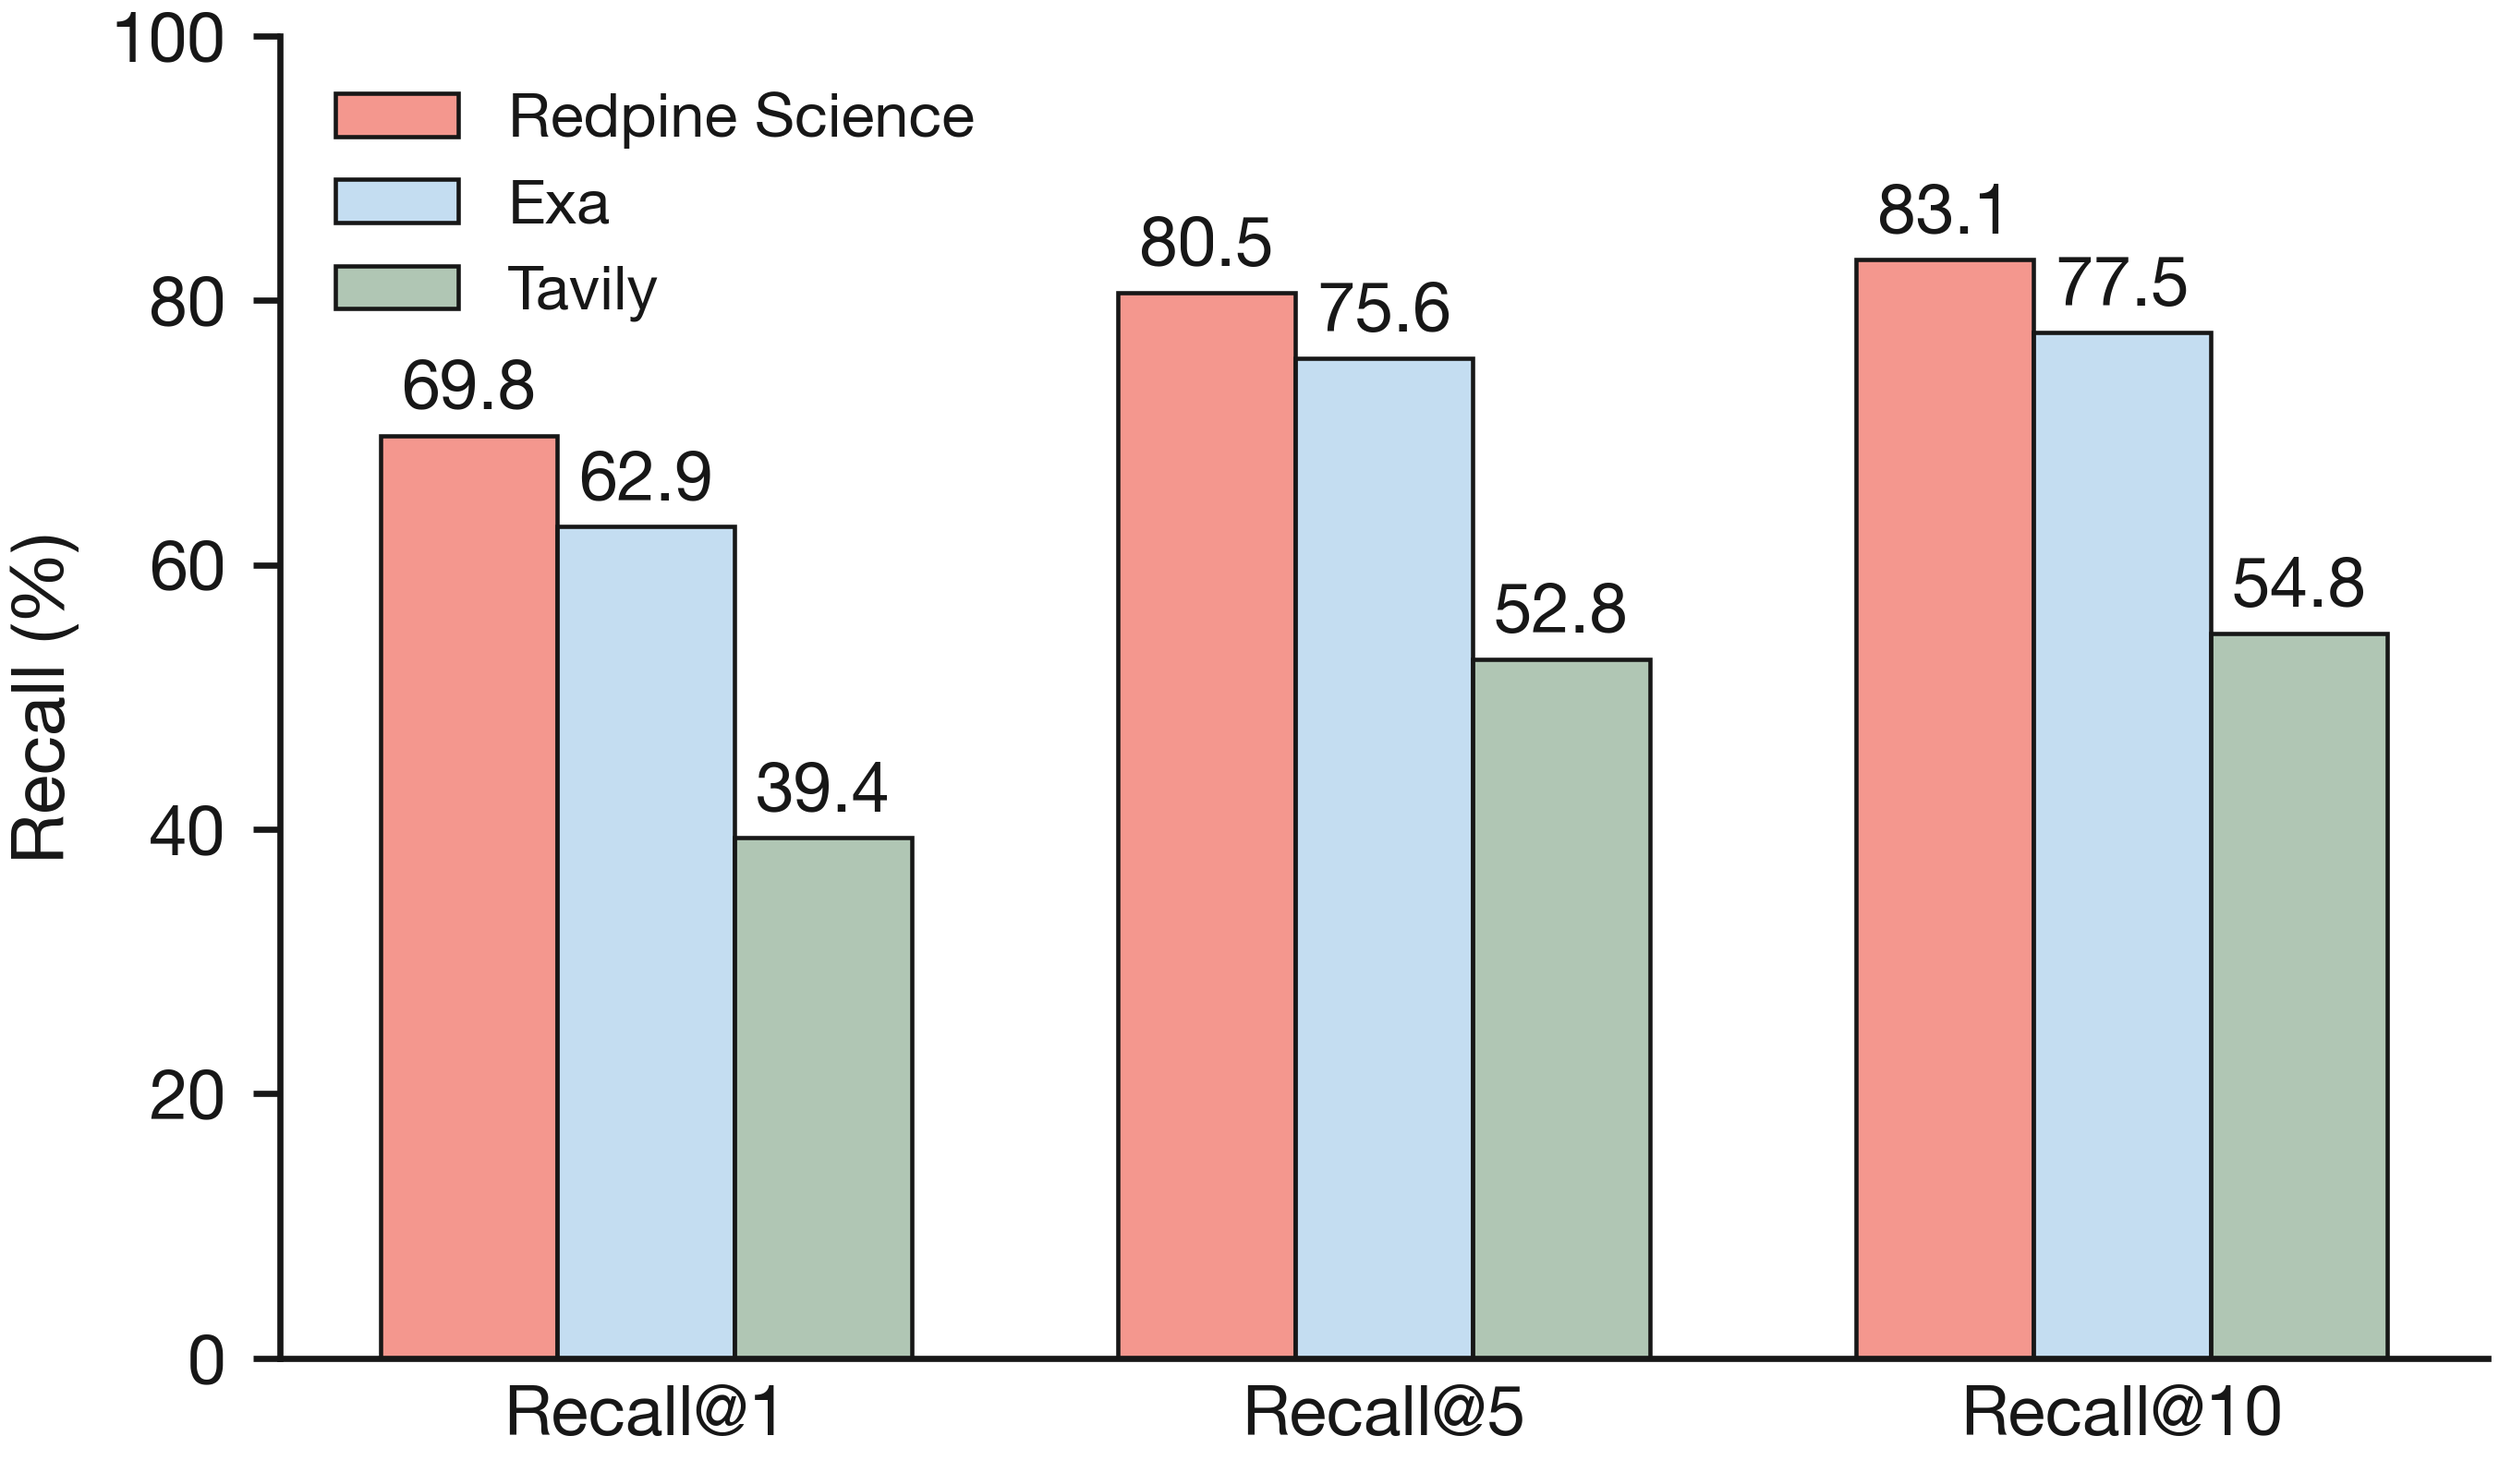
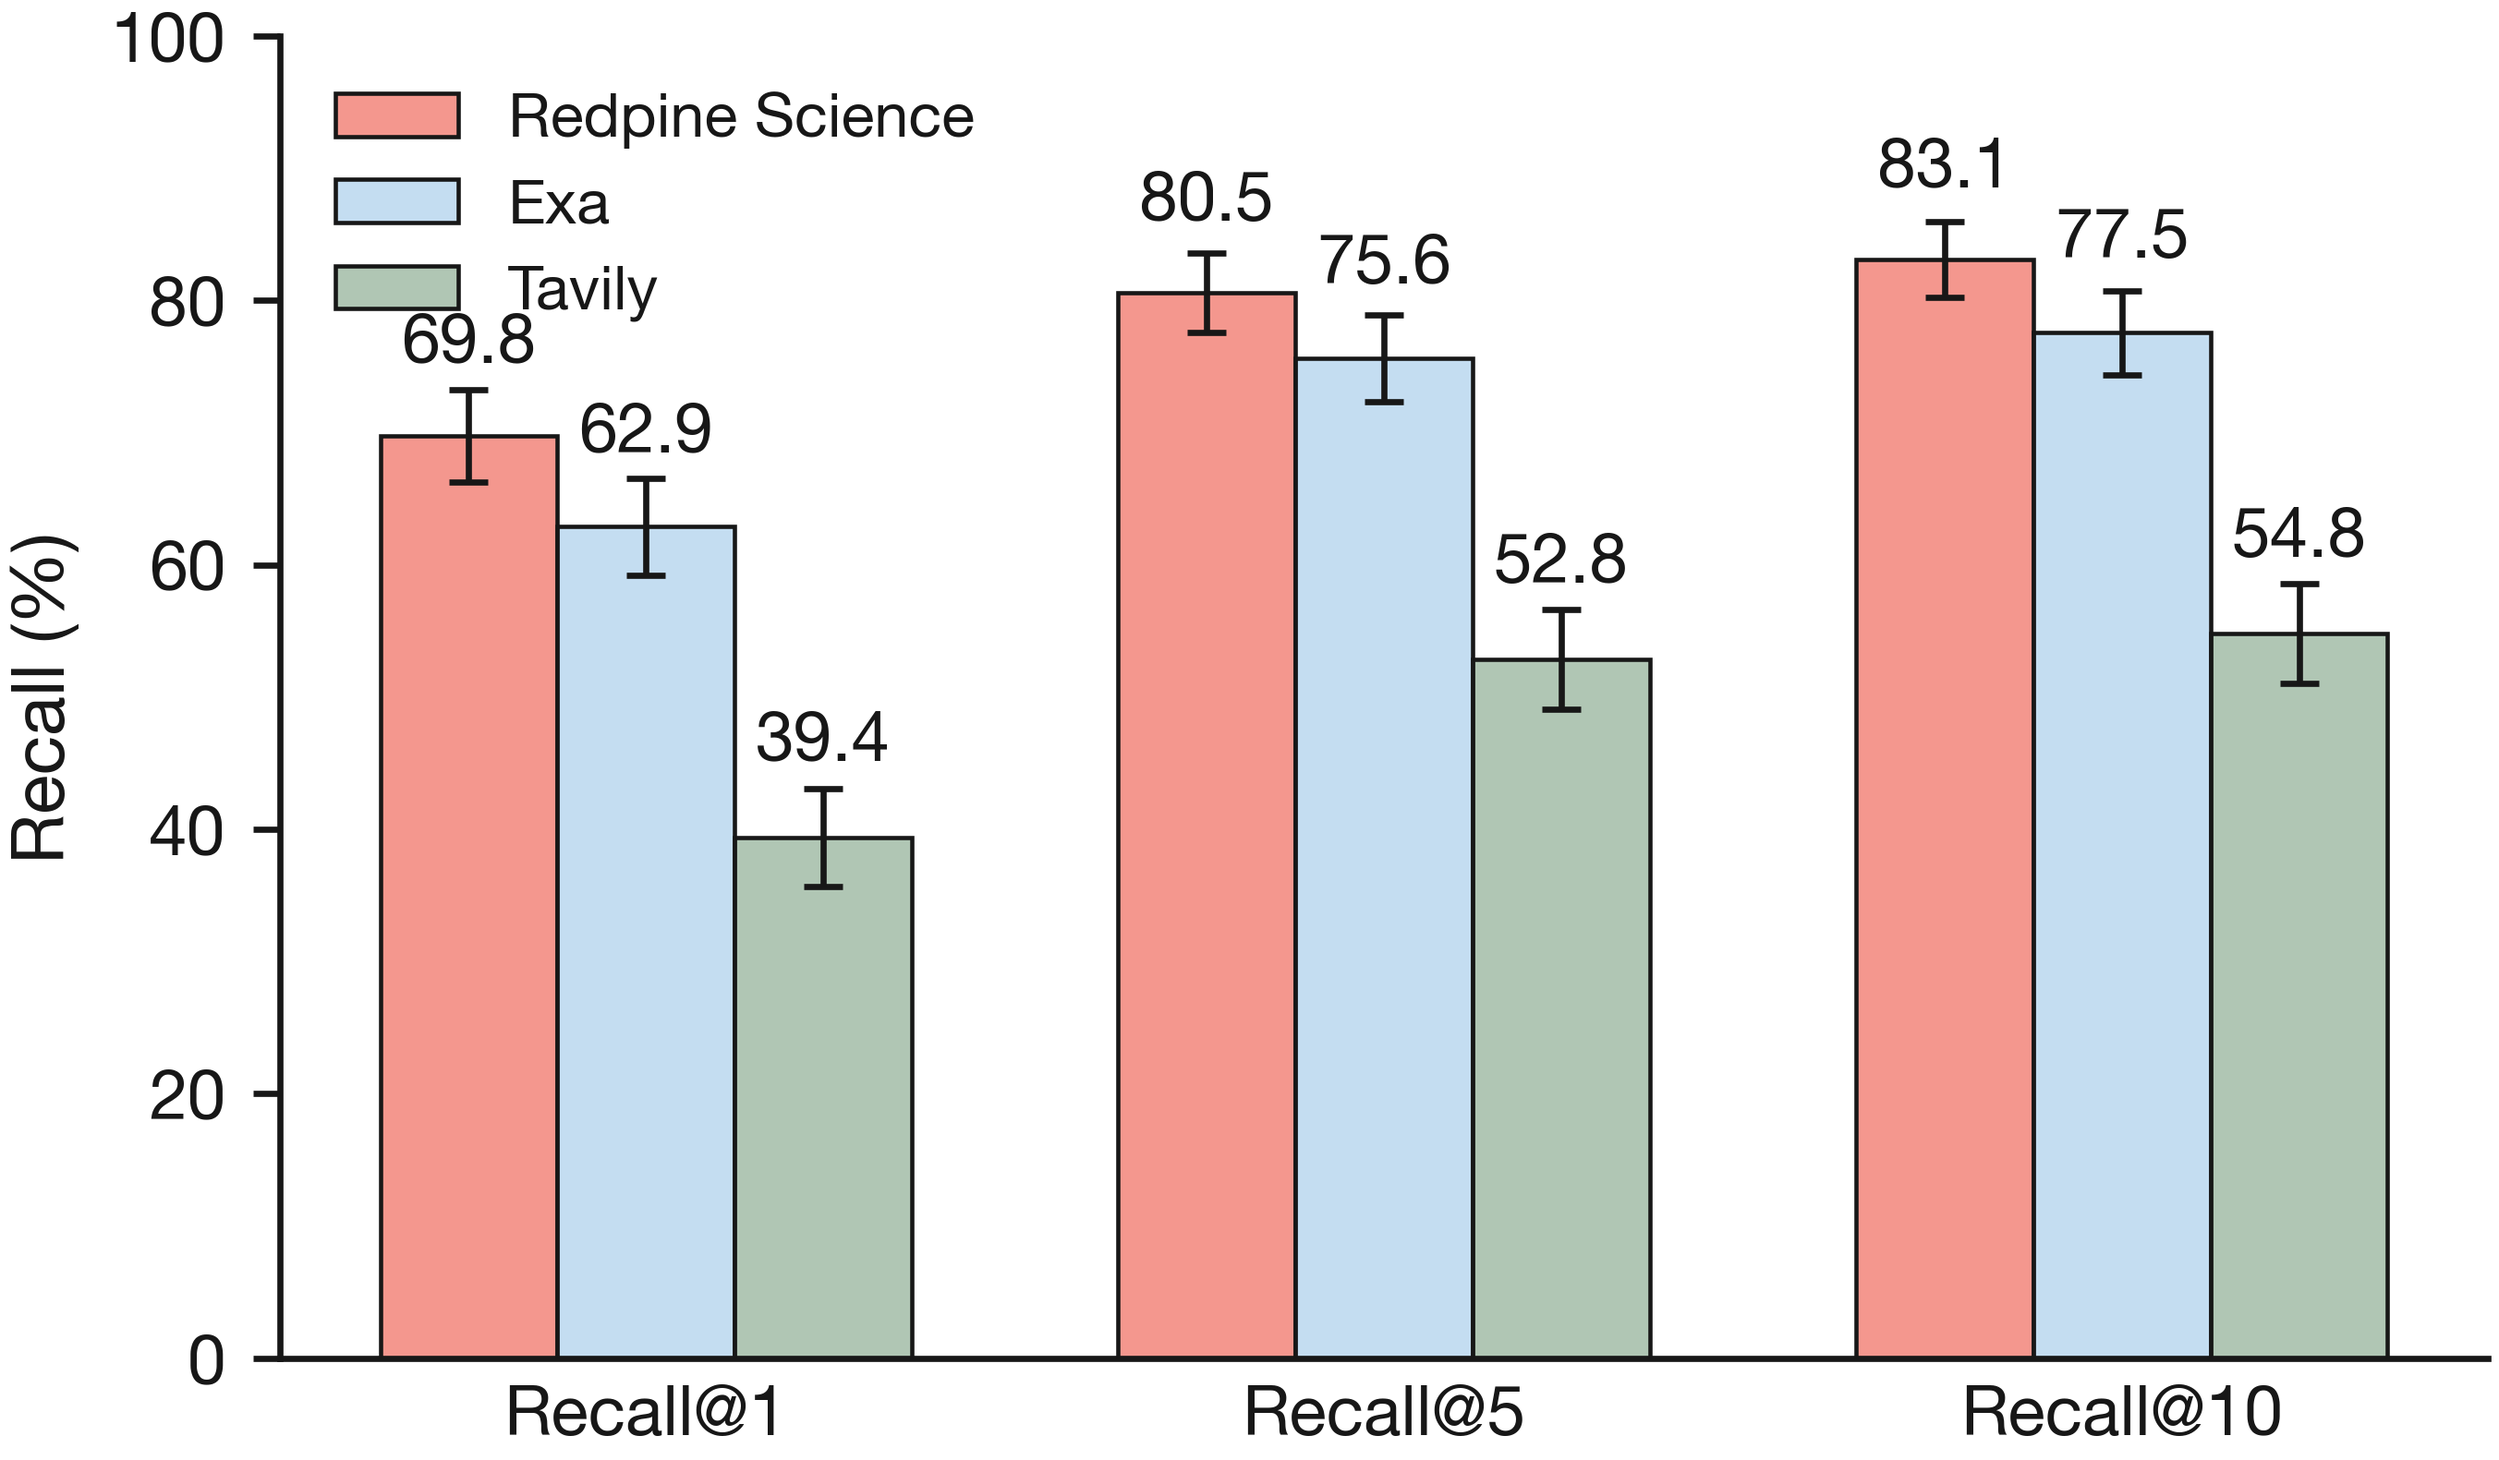
feat(figures): add real binomial CI error bars to quadrant three's recall chart
Exact found-counts at each rank cutoff (466/538/555 Redpine,
420/505/518 Exa, 263/353/366 Tavily, all /668), derived from each
system's rank-1-through-10 distribution and cross-checked against
the existing Recall@1/5/10 percentages. Wald 95% CI computed from
these counts, same method fig_quadrant4_precision.py uses for its
own Precision@5 bars.

diff --git a/figures/fig_quadrant3_recall.py b/figures/fig_quadrant3_recall.py
@@ -14,6 +14,18 @@ normalized title substring match.
     Exa       668  518     62.87%     75.60%     77.54%      0.6865   0.7086
     Tavily    668  366     39.37%     52.84%     54.79%      0.4521   0.4758
 
+Exact found-counts at each rank cutoff, derived from each system's rank
+distribution (1-10) and cross-checked against the percentages above:
+
+    System    Recall@1 (k/n)   Recall@5 (k/n)   Recall@10 (k/n)
+    Redpine   466/668          538/668          555/668
+    Exa       420/668          505/668          518/668
+    Tavily    263/668          353/668          366/668
+
+Error bars are a Wald (normal-approximation) 95% confidence interval for a
+binomial proportion, computed here from these exact counts -- the same
+method fig_quadrant4_precision.py uses for its own Precision@5 bars.
+
 MRR and nDCG are reported in the main text's table, not this figure, which
 covers only the three recall cutoffs. Do not mix in Gemini or Bing numbers
 from the same project: those showed run-to-run flip rates of 10-13% on this
@@ -23,22 +35,25 @@ with the three systems plotted here.
 Run:  uv run --with matplotlib python figures/fig_quadrant3_recall.py
 """
 
+import math
 import sys
 from pathlib import Path
 
 sys.path.insert(0, str(Path(__file__).resolve().parent))
 
 from redpine_style import (  # noqa: E402
-    ARM_COLORS, apply_style, bar_style, figure, label_bars, save,
+    ARM_COLORS, DARK_GREY, apply_style, bar_style, figure, label_bars, save,
 )
 
 OUT = Path(__file__).resolve().parent / "quadrant3_recall"
 
-# Recall at each rank cutoff, in percent, one list per system, in RANKS order.
-RECALL = {
-    "redpine": [69.76, 80.54, 83.08],
-    "exa":     [62.87, 75.60, 77.54],
-    "tavily":  [39.37, 52.84, 54.79],
+N_QUERIES = 668
+
+# (found, n) at each rank cutoff, one tuple per rank, in RANKS order.
+COUNTS = {
+    "redpine": [(466, N_QUERIES), (538, N_QUERIES), (555, N_QUERIES)],
+    "exa":     [(420, N_QUERIES), (505, N_QUERIES), (518, N_QUERIES)],
+    "tavily":  [(263, N_QUERIES), (353, N_QUERIES), (366, N_QUERIES)],
 }
 
 # Plot order left to right within each rank group: Redpine first since it is
@@ -54,6 +69,15 @@ LABELS = {
 
 BAR_WIDTH = 0.24
 
+Z_95 = 1.959963984540054  # two-sided normal critical value at 95%
+
+
+def proportion_and_ci(k, n):
+    """Wald 95% CI for a binomial proportion, in percentage points."""
+    p = k / n
+    half_width = Z_95 * math.sqrt(p * (1 - p) / n)
+    return p * 100, half_width * 100
+
 
 def main():
     apply_style()
@@ -63,13 +87,23 @@ def main():
     n_systems = len(ORDER)
 
     for i, system in enumerate(ORDER):
+        values, errors = [], []
+        for k, n in COUNTS[system]:
+            value, half_width = proportion_and_ci(k, n)
+            values.append(value)
+            errors.append(half_width)
+
         offset = (i - (n_systems - 1) / 2) * BAR_WIDTH
         x = [c + offset for c in centers]
         bars = ax.bar(
-            x, RECALL[system], width=BAR_WIDTH,
+            x, values, width=BAR_WIDTH,
             **bar_style(ARM_COLORS[system]), label=LABELS[system], zorder=2,
         )
-        label_bars(ax, bars, RECALL[system], offset=1.0)
+        ax.errorbar(
+            x, values, yerr=errors, fmt="none",
+            ecolor=DARK_GREY, elinewidth=0.8, capsize=2.5, capthick=0.8, zorder=3,
+        )
+        label_bars(ax, bars, values, offset=max(errors) + 1.0)
 
     # A bar chart is read by comparing heights, so the axis starts at zero.
     ax.set_ylim(0, 100)
@@ -83,8 +117,10 @@ def main():
 
     out = save(fig, OUT)
     for system in ORDER:
-        values = "  ".join(f"{v:.1f}" for v in RECALL[system])
-        print(f"{LABELS[system]:16s} {values}")
+        for rank_label, (k, n) in zip(RANKS, COUNTS[system]):
+            value, half_width = proportion_and_ci(k, n)
+            print(f"{LABELS[system]:16s} {rank_label:10s} "
+                  f"{value:5.1f}% +/- {half_width:.1f}  ({k}/{n})")
     print("wrote", out)
 
 
